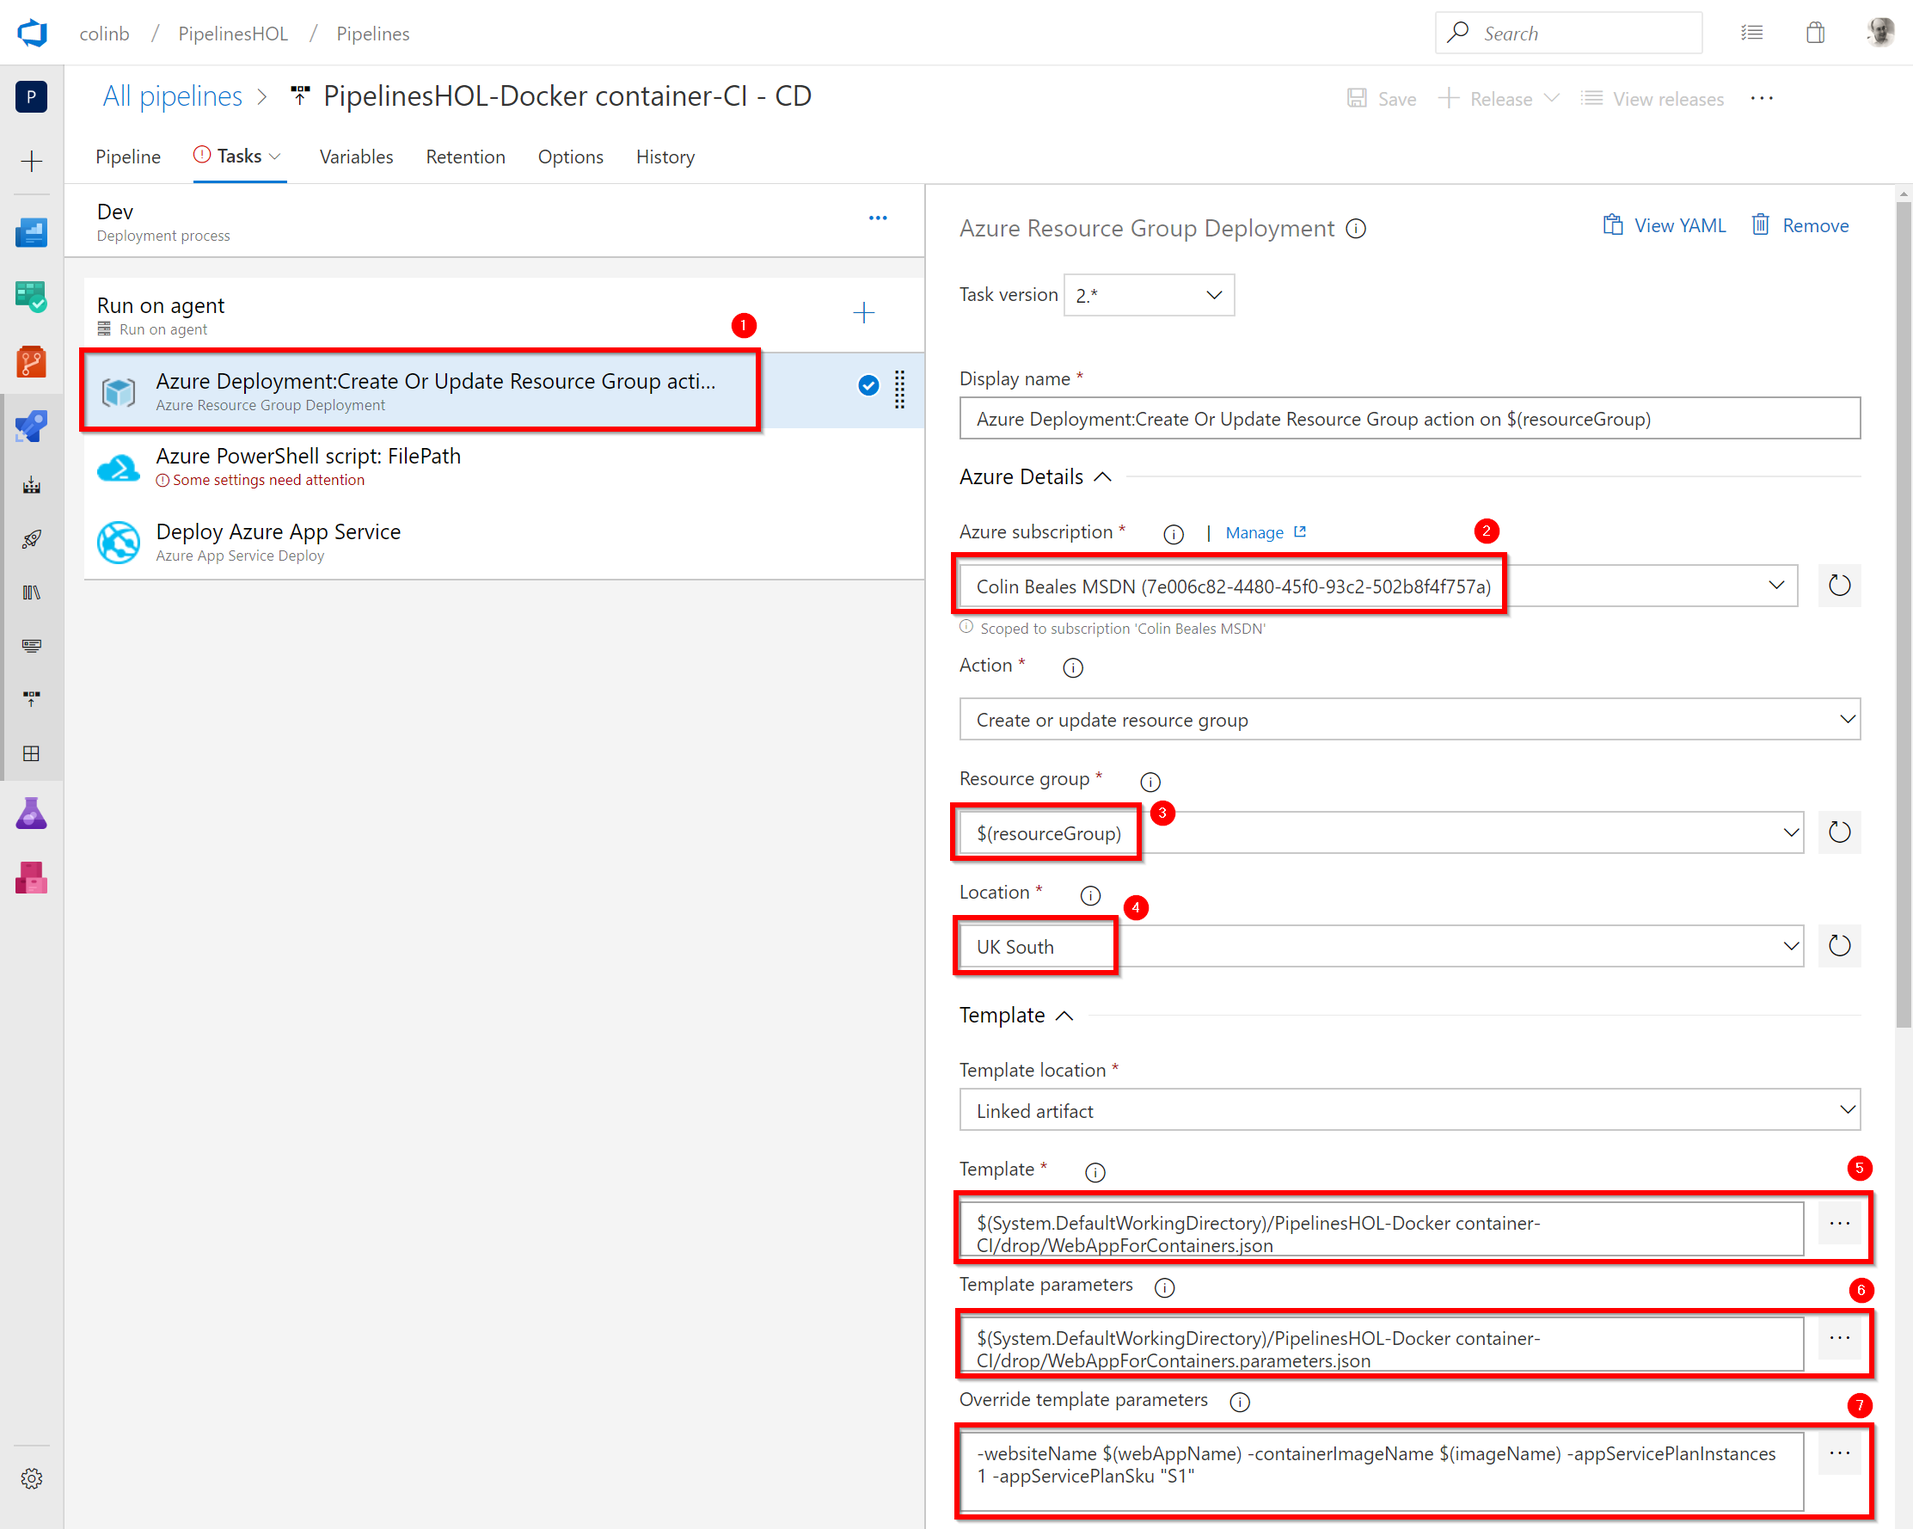
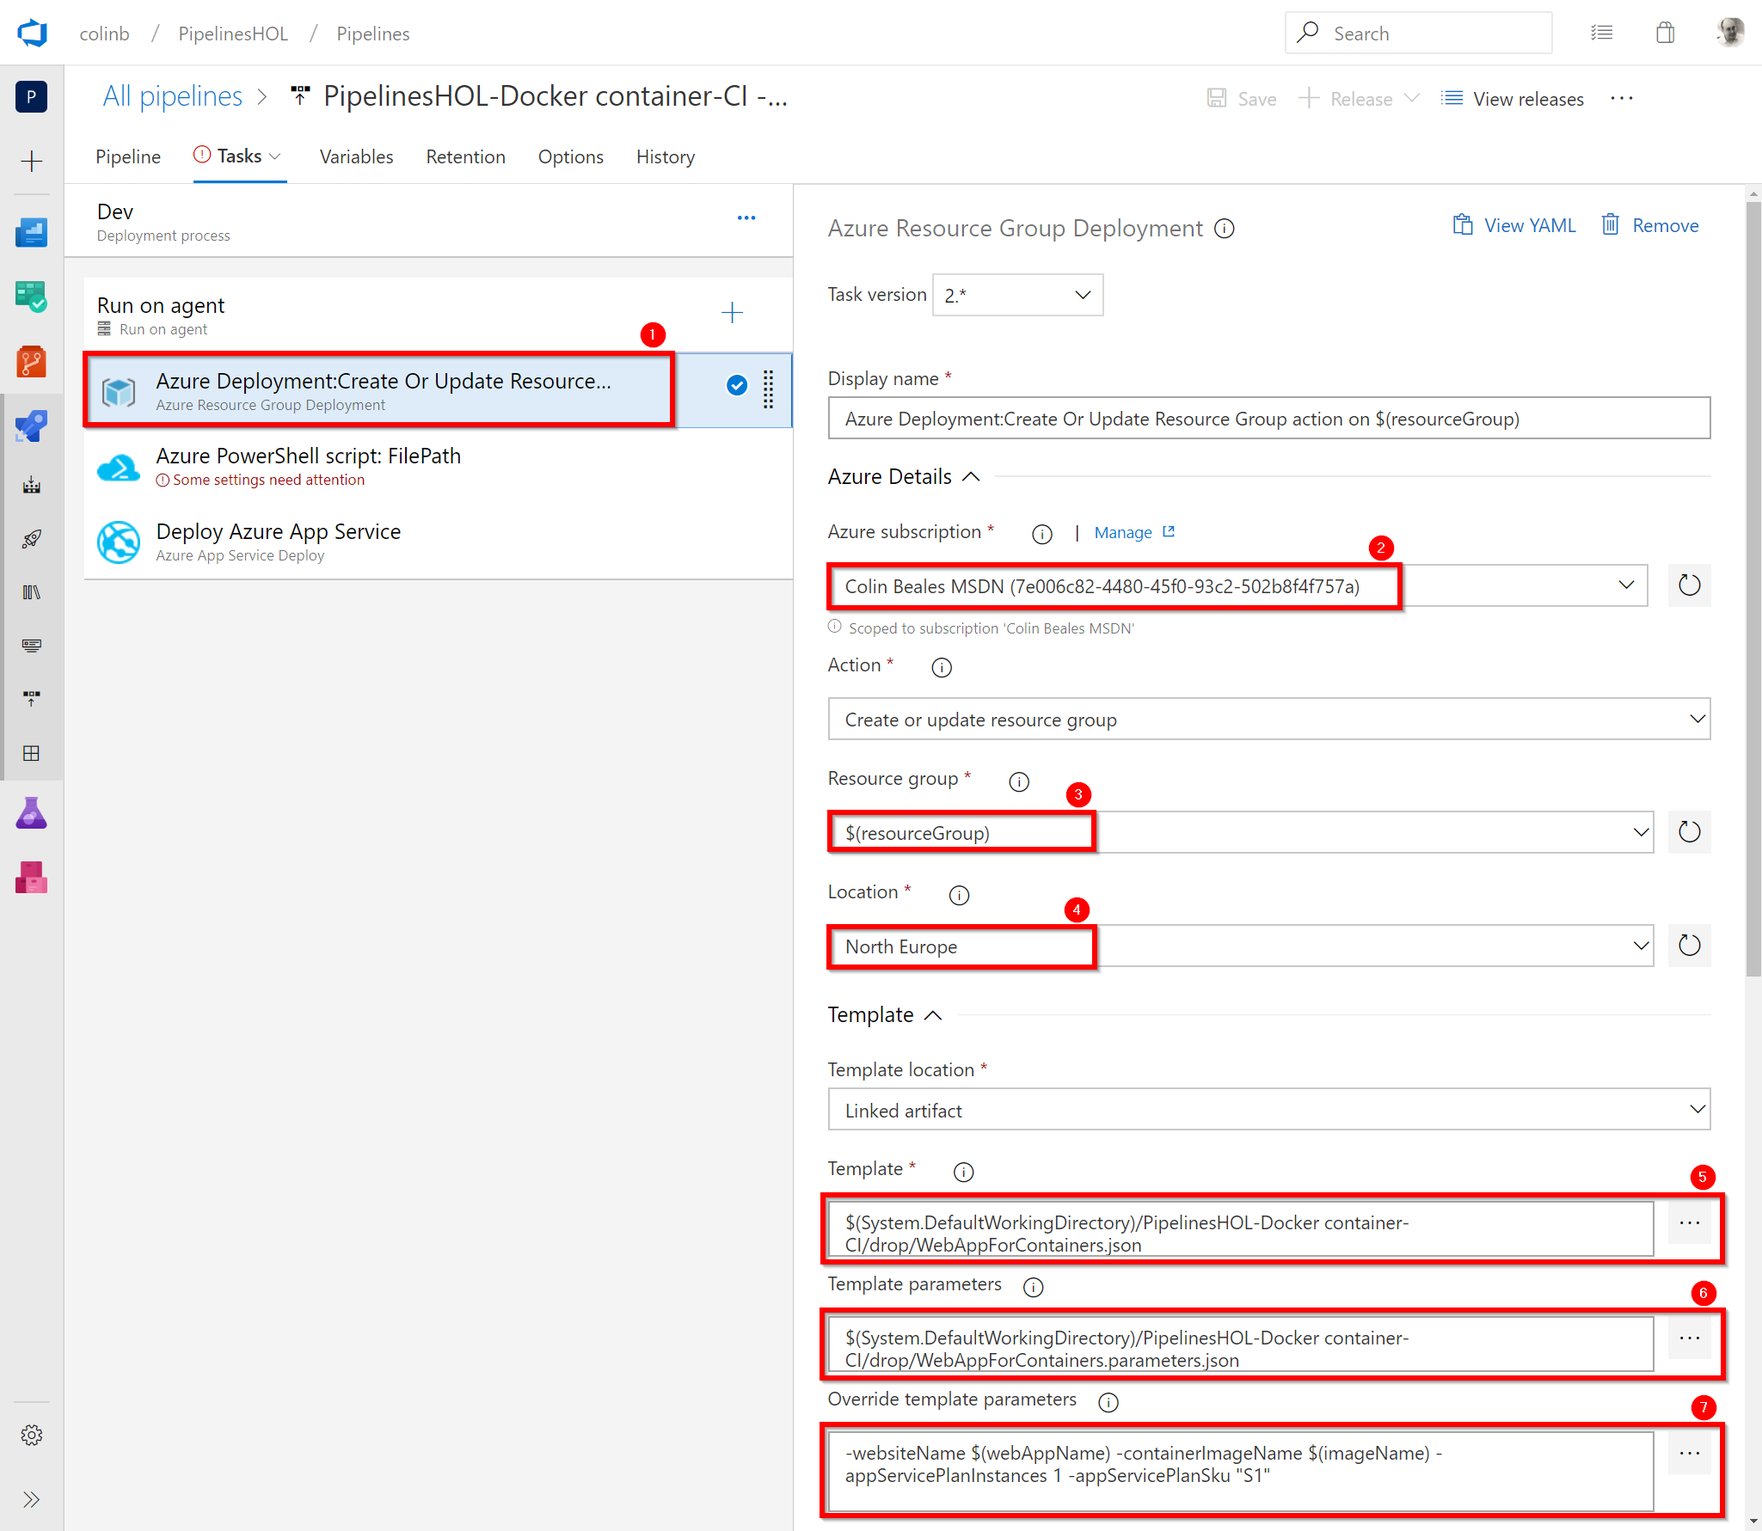
Added labs 6 and 7 and images

diff --git a/AzurePipelinesLab7.md b/AzurePipelinesLab7.md
@@ -1,25 +1,114 @@
 # Lab 7: CD Release for a Docker Container
-Not done yet
+We've built our docker container and pushed this into a private, secure Azure Container Registry. This provides us storage for our container, but we will want to host this container in Azure to provide the compute that enables this container to run. 
 
-## Task 1: Creating the pipeline
+Azure has many choices to host an container such as AKS, a managed Kubernetes service, Azure Container Instances as a simple container host, however in this Lab we will use Azure App Service again and it's Web App for Containers service to simply host a web application or API from a flexible host that can scale to our needs.
 
-1. Not done yet
+## Task 1: Creating the release pipeline
+
+1. Picking up from where we left off in the last lab in the logs page of our container build pipe that we executed you'll notice a "Release" in the top right corner that you can click. 
 
 <img src="images/Lab7_1.png" width="624"/>
+
+2. Pressing the "Release" button from a build gives the release creation process some context that it knows our intent is to create a release from the artifacts of that build pipeline. Take a look at the screen presented to you and you'll see that automatically this pipeline has been configured to do continuous deployment from the build artifact that we just created. This saves a few steps we had to complete back in Lab???? where we had to setup this artifact ourselves. 
+   
+   This means we now simply have to pick a good template for our Stage to scaffold out task(s) we can use in our release. As we want to host our container with Azure App Service (albeit a different one from our last lab) select "Apply" on the "Azure App Service deployment" template in the list.
+   
 <img src="images/Lab7_2.png" width="624"/>
+
+3. Whilst this lab we won't be creating clones of our stages to represent environments we'll name this stage to "Dev" to give it a little more context if ever we choose to clone from it at a future point. Once we've renamed we can close the dialog with the "X" in the top right hand corner.
+
 <img src="images/Lab7_3.png" width="624"/>
+
+4. There are a number of variables we'll want setup for this pipeline so click into the "Variables" tab and enter in the following Name, Values and Scopes:
+
+| Name | Value|Scope|
+|------|------|-----|
+|imageName|pipelinedemowebsite|Release|
+|registryName|myuniqueregistryname|Release|
+|resourceGroup|AzurePipelinesContainerLabGroup|Release|
+|webAppName|uniquedockerwebappnameDev|Dev|
+
+The registryName value needs to be the same name you used in the last lab that was used for your Azure Container Registry. The webAppName also needs some unique name for your Web App to be made available via. Think of something unique to you and append "Dev" at the end of this string.
+
 <img src="images/Lab7_4.png" width="624"/>
+
+5. With our variables set we can click back to the "Tasks" tab. At the stage level selected by defaults there are some parameters to fill in for the entire pipeline. These values are:
+   * Azure Subscription - Select the Azure Subscription you wish to deploy to, assuming this is the same you've used before you will not need to Authorize again.
+   * App type - "Web App for Containers (Linux)" 
+   * App service name - "\$(webAppName)" the name from our variables for our Web App.
+   * Registry or Namespace - "\$(registryName).azurecr.io" can be added here as it can use our registry name variable to make up the registry url.
+    * Repository - "\$(imageName) can be used here.
+
 <img src="images/Lab7_5.png" width="624"/>
+
+6. Now we need to add some more tasks to the pipeline. As we've done before click the "+" on the agent job to bring up the add tasks dialog. Search for "ARM" as we've done before to find the "Azure Resource Group Deployment" task which you can drag & drop onto the pipeline before the existing "Deploy App Service" task.
+
 <img src="images/Lab7_6.png" width="624"/>
+
+7. As the add tasks panel is still shown we can make our final task addition. Search for "Azure Power" to locate the "Azure PowerShell" task and drag and drop this task inbetween the two tasks already in the pipeline.
+   
 <img src="images/Lab7_7.png" width="624"/>
+
+8. That's all our new tasks added so lets go configure the ones in the pipeline. First click the "Azure Resource Group Deployment" task you added at the start. This task will be used to Create our Azure App Service configured for Web App for COntainers that we need to host our container. With this selected you can change the desired fields which are:
+    * Azure Subscription - Select the Azure Subscription you wish to deploy to, assuming this is the same you've used before you will not need to Authorize again.
+    * Resource Group - Use our variable "\$(resourceGroup)"
+    * Location - "North Europe". to support "Azure Web App for Containers" 
+    * Template - Use the "..." to find the file "WebAppForContainers.json" which should be in our drop artifact.
+    * Template parameters - Use the "..." to find the file "WebAppForContainers.parameters.json" which again will be in drop artifact.
+    * Override parameters - Use the "..." elispses to bring up the parameter override dialog and enter "\$(webAppName)" as the value for the website name and "\$(iamgeName)" as the value for the container image name.
+
 <img src="images/Lab7_8.png" width="624"/>
+
+9. Lets move onto the Azure PowerShell task. We're going to use this task to get the password we need in the final deploy app service task that allows our App Service to connect to, authenticate and pull the image it requires from our private, secured Azure Container Registry. As we don't have a task to do this we will use some Azure PowerShell and then once we retrieve the password we can write it into a variable called \$(registryKey). Lets set the values for this task to the following:
+* Azure Subscription - Select the Azure Subscription you wish to deploy to, assuming this is the same you've used before you will not need to Authorize again.
+* Script Type - "Inline Script"
+* Inline Script - Copy/paste the script below...
+
+```PowerShell
+$credentialObject = Get-AzureRmContainerRegistryCredential -ResourceGroup $(resourceGroup) -Name $(registryName)
+$password = $credentialObject.Password.ToString()
+Write-Output ("##vso[task.setvariable variable=registryKey;]$password")
+```
+   * Azure PowerShell Version - "Latest installed version"
+
 <img src="images/Lab7_9.png" width="624"/>
+
+10. The final task is mostly already completed based on the fact we configured "Web App for Containers" at the stage level. However we do need to scroll down and expand the "Application and Configuration Settings" section. In here bring up name value editor with the elipses "..." and enter the follow name/value pairs to configure "Web App for Containers" to have access to our Azure Container Registry. 
+
+|Name|Value|
+|----|-----|
+|DOCKER_REGISTRY_SERVER_URL|\$(registryName).azurecr.io|
+|DOCKER_REGISTRY_SERVER_USERNAME|\$(registryName)|
+|DOCKER_REGISTRY_SERVER_PASSWORD|\$(registryKey)|
+
+Once this data has been entered click the "Save" button to initiate a final save of our pipeline.
+
 <img src="images/Lab7_10.png" width="624"/>
+
+11. Once again confirm the Save by clicking "OK"
+    
 <img src="images/Lab7_11.png" width="624"/>
+
+## Task 2: Execute a release on the new container pipeline
+
+1. At the top of the screen in the "Release" dropdown click "Create release" to start our release process.
+   
 <img src="images/Lab7_12.png" width="624"/>
+
+2. On the Create an new release blade we are releasing to our only stage "Dev" and releasing the only build artifact we have so leave all the defaults and click "Create".
+
 <img src="images/Lab7_13.png" width="624"/>
+
+3. The pipeline should start executing, click the "Release 1" link from the notification bar at the top of the screen as we've followed in previous labs.
+   
 <img src="images/Lab7_14.png" width="624"/>
+
+4. You can either wait until success or click on the in-progress link as we've done in previous labs to see live progress of the release. If you click "Succeeded" on completion of the deployment to the stage you can view the logs of progress.
+   
 <img src="images/Lab7_15.png" width="624"/>
+
+5. With the logs showing success you have now completed the container lab. Feel free to have a go at some of the freeform hack suggestions in the next section.  
+   
 <img src="images/Lab7_16.png" width="624"/>
 
 [<- (Advanced) Lab 6: Create a continuous integration build for a docker container](https://github.com/colinbeales/AzurePipelinesHOL/blob/master/AzurePipelinesLab6.md)

diff --git a/AzurePipelinesLab6.md b/AzurePipelinesLab6.md
@@ -1,28 +1,98 @@
 # Lab 6: CI Build for a Docker Container
-Not done yet
+In this lab we will start on a journey to build and deploy the same web application, but this time we will building and deploying the appication by using docker containers. This lab will look to create a new build pipeline to build our container, the next application will look to deploy it. Once again we will look to use infrastructure-as-code via ARM templates that will create the resources that we need in Azure, which for this build pipeline will create a private container registry using Azure Container Registry and in the next lab will create the nessisary Azure resources to host our container making it accessible from the internet.
 
-## Task 1: Adding our approvals
+## Task 1: Building a pipeline for a docker container
 
-1. Not done yet
+1. To start building our container we are going to need a new build so head to the menus and select the "Builds" submenu from the Pipelines section.
 
-<img src="images/Lab6_1.png" width="624"/>
+<img src="images/Lab6_1.png" width="424"/>
+
+2. We have one pipeline from the last lab already created so lets head to the "New" dropdown and select "New build pipeline" to start a new one for our container build.
+   
 <img src="images/Lab6_2.png" width="624"/>
+
+3. Once again we're going to use the UI based editor rather than YAML so click "Use the classic editor". 
+
 <img src="images/Lab6_3.png" width="624"/>
+
+4. Once again we know our source code is going to be in our Azure Repos repository in the Master branch so we should be able to stick with the defaults here and click "Continue"
+   
 <img src="images/Lab6_4.png" width="624"/>
+
+5. For the template to start with lets find the template for "Docker container" as that will be a good start point and click "Apply"
+   
 <img src="images/Lab6_5.png" width="624"/>
+
+6. This time we're going to set all our variables up all at once, later we'll use them in the tasks in the pipeline. Click the "Variables" tab to get to our entry screen and add the following names and values.
+
+| Name | Value|
+|------|------|
+|imageName|pipelinedemowebsite|
+|registryName|myuniqueregistryname|
+|resourceGroup|AzurePipelinesContainerLabGroup|
+
+The registryName value needs to be globally unique so think of something unique to you as a name for your Azure Container Registry and enter in in lower case.
+
 <img src="images/Lab6_6.png" width="624"/>
+
+7. With our variables done we can click the "Tasks" tab to focus our attention to the tasks we need in our pipeline. We'll need to add a few tasks so click the "+" on our agent job to bring up the add tasks dialog and search "ARM" to find the "Azure Resource Group Deployment" task. When you find the task use the UI to drag and drop the task into your pipeline placing it as the first task before the existing "Build an image" task.
+   
 <img src="images/Lab6_7.png" width="624"/>
+
+8. Now using the add tasks dialog which should still be open search with the word "Copy" to find the "Copy files" task. Once you find this again drag and drop it into your pipeline, this time placing the task after the "Push an image" task.
+
 <img src="images/Lab6_8.png" width="624"/>
+
+9. We've one more task to add so search again for "Publish Build" and find the "Publish Build Artifacts" task and add this by dragging it and droppin it to the end of the pipeline just after the "Copy files" task you added in the previous step.
+
 <img src="images/Lab6_9.png" width="624"/>
+
+10. We need to configure the tasks in the pipeline as they wont work as required with all the defaults so lets go through the changes we need on the tasks. First click the "Azure Resource Group Deployment" task you added at the start. This task will be used to Create our Azure Container Registry which we will use as a private and secure storage location for our docker container. With this selected you can change the desired fields which are:
+    * Display name - "Create Container Registry in AzurePipelinesLabGroup"
+    * Azure Subscription - Select the Azure Subscription you wish to deploy to, assuming this is the same you've used before you will not need to Authorize again.
+    * Resource Group - Use our variable "\$(resourceGroup)"
+    * Location - "North Europe". Whilst previously I used UK South we will later need a service "Azure Web App for Containers" which isn't at the time of writing available in this region so we'll use "North Europe"
+    * Template - Use the "..." to find the file "ContainerRegistry.json" which should be in our "SimpleDotNetCoreApp.ARM" directory.
+    * Template parameters - Use the "..." to find the file "ContainerRegistry.parameters.json" which again will be in our "SimpleDotNetCoreApp.ARM" directory.
+    * Override parameters - Use the "..." elispses to bring up the parameter override dialog and enter "\$(registryName)" as the value for the Registry Name.
+    
 <img src="images/Lab6_10.png" width="624"/>
+
+11. Lets click on the "Build an image" task an make changes here to ensure that our dockerfile is built into a container. You can change the desired fields with these settings:
+    * Azure Subscription - Select the Azure Subscription you wish to deploy to, assuming this is the same you've used before you will not need to Authorize again.
+    * Azure Container Registry - "\$(registryName).azurecr.io" can be added here as it can use our registry name variable to make up the registry url.
+    * Image Name - "\$(imageName):\$(Build.BuildId)" can be user here to use our image name variable along with our build id to identify this build of our image in the registry.
+    
 <img src="images/Lab6_11.png" width="624"/>
+
+12. Moving onto the "Push an image" task by a quick click means we can push our newly built container into the Azure Container Registry. You can change these same familiar fields from the last task to make this happen:
+    * Azure Subscription - Select the Azure Subscription you wish to deploy to, assuming this is the same you've used before you will not need to Authorize again.
+    * Azure Container Registry - "\$(registryName).azurecr.io" can be added here as it can use our registry name variable to make up the registry url.
+    * Image Name - "\$(imageName):\$(Build.BuildId)" can be user here to use our image name variable along with our build id to identify this build of our image in the registry.
+   
 <img src="images/Lab6_12.png" width="624"/>
+
+13. Click onto the "Copy files" task as we need to configure this to copy our ARM templates into our \$(Build.ArtifactStagingDirectory) which we will then publish into an artifact drop to be used in our continuous deployemnt release pipeline. Change the following values:
+* Display name - "Copy ARM templates to \$(Build.ArtifactStagingDirectory)"
+* Source folder - Either type "SimpleDotNetCoreApp.ARM" or use the "..." elipses to select this folder from the file/folder picker.
+* Target folder - "\$(Build.ArtifactStagingDirectory)" 
+  
 <img src="images/Lab6_13.png" width="624"/>
+
+## Task 2: Execute the build for a docker container
+
+1. Luckily the "Publish Artifact Drop" task already creates a drop from \$(Build.ArtifactStagingDirectory) so we don't need to configure the last task from the defaults. We are now good to pick "Save & queue" from the "Save & queue" drop down. To execute our build.
+
 <img src="images/Lab6_14.png" width="624"/>
+
+2. Click "Save & queue" on the confirmation dialog to save our build pipeline and to queue it against the "Hosted Ubuntu" pool. This will trigger a build to execute on a Microsoft hosted linux server hosted in the Azure cloud.
 <img src="images/Lab6_15.png" width="624"/>
+
+3. As our build is executing we can follow the usual notification link at the top of the screen to see its progress. "Click" the link now.
 <img src="images/Lab6_16.png" width="624"/>
+
+4. If you arrived at this point early enough you will see the usual real-time update of the build executing, if this is the case wait until the build finishes, at which point it should look similar to the below image and this part of the lab is done and we're ready to move onto creating a release to create a resource in Azure to host our container and deploy to that.
+
 <img src="images/Lab6_17.png" width="624"/>
-
-
 
 [<- Lab 5: Add approvals](https://github.com/colinbeales/AzurePipelinesHOL/blob/master/AzurePipelinesLab5.md) | [(Advanced) Lab 7: Create a release pipeline to run a container ->](https://github.com/colinbeales/AzurePipelinesHOL/blob/master/AzurePipelinesLab7.md)
